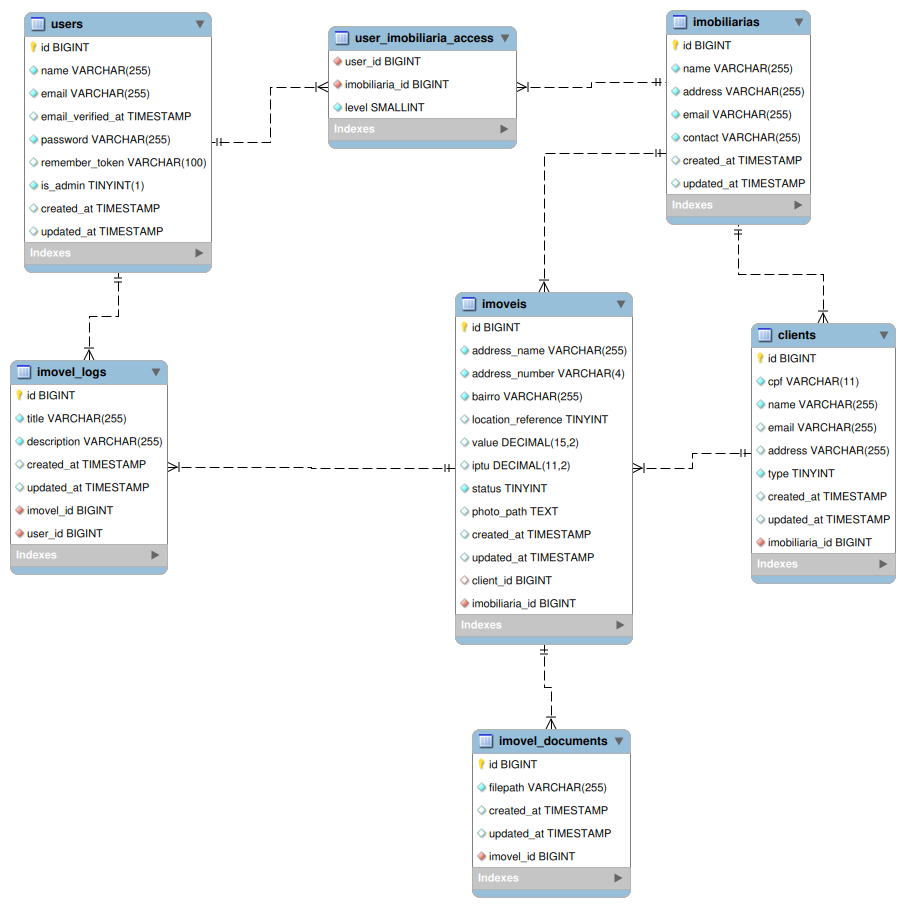
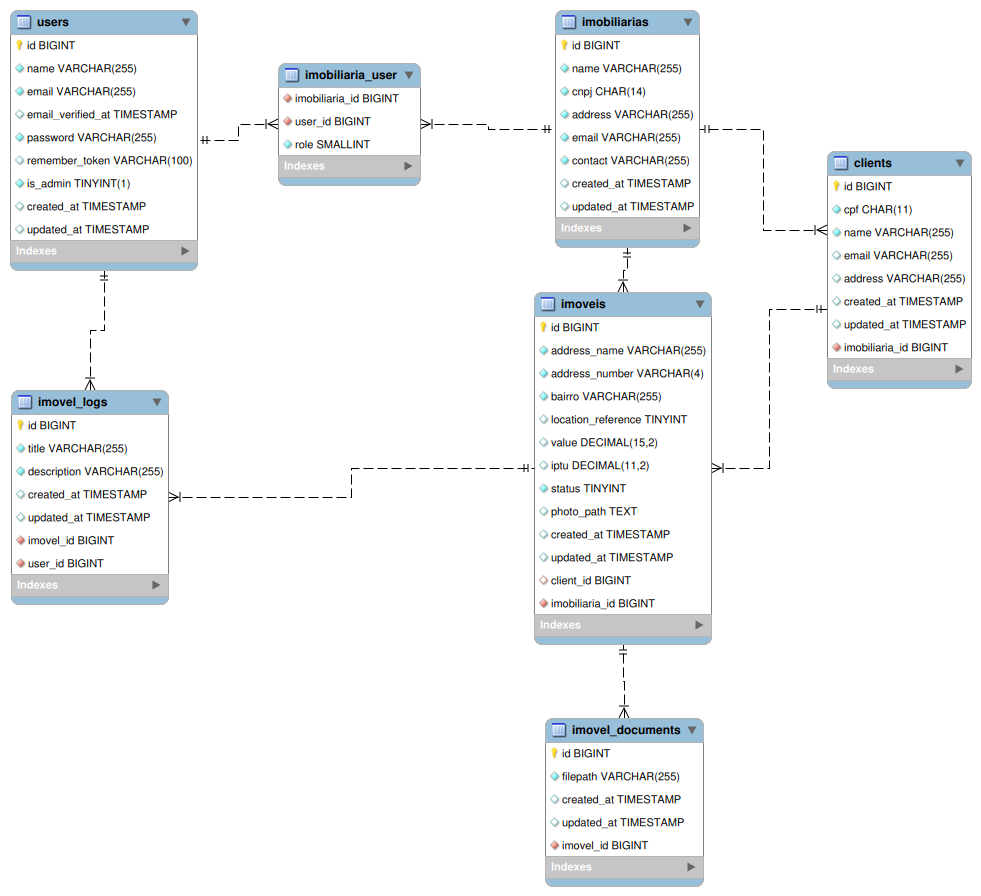
refactor: improve infrastructure of role permission management

diff --git a/database/seeders/ImobiliariaSeeder.php b/database/seeders/ImobiliariaSeeder.php
@@ -2,7 +2,7 @@
 
 namespace Database\Seeders;
 
-use App\Enums\AccessLevel;
+use App\Enums\UserRole;
 use App\Models\Imobiliaria;
 use App\Models\User;
 use Illuminate\Database\Console\Seeds\WithoutModelEvents;
@@ -21,7 +21,7 @@ class ImobiliariaSeeder extends Seeder
     private static function generateUserImobiliarias(): array
     {
         // $imobiliarias = Imobiliaria::factory()->count($count)->create();
-        $levels = AccessLevel::cases();
+        $levels = UserRole::cases();
 
         $attachments = [];
 
@@ -29,7 +29,7 @@ class ImobiliariaSeeder extends Seeder
         foreach ($levels as $level) {
             $imobiliaria = Imobiliaria::factory()->create();
             $level_id = $level->value;
-            $attachments[$imobiliaria->id] = ['level' => $level_id];
+            $attachments[$imobiliaria->id] = ['role' => $level_id];
         }
 
         return $attachments;
@@ -42,13 +42,13 @@ class ImobiliariaSeeder extends Seeder
     {
         $users = User::all();
 
-        // For each user, create imobiliarias
+        // For each user, create imobiliarias and attach access level
         $users->skip(1)->each(
             function (User $user) {
                 $attachments = static::generateUserImobiliarias();
-                // attach the imobiliarias to the user
-                // attach object format:
-                // [imobiliaria_id => ['level' => level_id]]
+                // attach imobiliarias to the user's imobiliaria list (aquired through user->imobiliarias())
+                // object format:
+                // [imobiliaria_id => ['level' => level_id], ...]
                 $user->imobiliarias()->attach($attachments);
             }
         );

diff --git a/app/Policies/ImovelPolicy.php b/app/Policies/ImovelPolicy.php
@@ -5,7 +5,7 @@ namespace App\Policies;
 use App\Models\Imovel;
 use App\Models\User;
 use Illuminate\Auth\Access\Response;
-use App\Enums\AccessLevel;
+use App\Enums\UserRole;
 use App\Services\ImobiliariaService;
 
 class ImovelPolicy
@@ -31,7 +31,7 @@ class ImovelPolicy
      */
     public function create(User $user): bool
     {
-        return ImobiliariaService::current_access_level() === AccessLevel::GERENTE || $user->is_admin;
+        return ImobiliariaService::current_access_level() === UserRole::GERENTE || $user->is_admin;
     }
 
     /**
@@ -39,7 +39,7 @@ class ImovelPolicy
      */
     public function update(User $user, Imovel $imovel): bool
     {
-        return ImobiliariaService::current_access_level() === AccessLevel::GERENTE || $user->is_admin;
+        return ImobiliariaService::current_access_level() === UserRole::GERENTE || $user->is_admin;
     }
 
     /**
@@ -47,7 +47,7 @@ class ImovelPolicy
      */
     public function delete(User $user, Imovel $imovel): bool
     {
-        return ImobiliariaService::current_access_level() === AccessLevel::GERENTE || $user->is_admin;
+        return ImobiliariaService::current_access_level() === UserRole::GERENTE || $user->is_admin;
     }
 
     /**

diff --git a/database/migrations/2025_01_26_202118_create_user_imobiliaria_access_table.php b/database/migrations/2025_01_26_202118_create_user_imobiliaria_access_table.php
@@ -10,10 +10,11 @@ return new class extends Migration {
      */
     public function up(): void
     {
-        Schema::create('user_imobiliaria_access', function (Blueprint $table) {
-            $table->foreignId('user_id')->constrained()->cascadeOnDelete();
+        Schema::create('imobiliaria_user', function (Blueprint $table) {
             $table->foreignId('imobiliaria_id')->constrained()->cascadeOnDelete();
-            $table->unsignedSmallInteger('level');
+            $table->foreignId('user_id')->constrained()->cascadeOnDelete();
+            $table->unsignedSmallInteger('role');
+            $table->unique(['user_id', 'imobiliaria_id']);
         });
     }
 
@@ -22,6 +23,6 @@ return new class extends Migration {
      */
     public function down(): void
     {
-        Schema::dropIfExists('user_imobiliaria_access');
+        Schema::dropIfExists('imobiliaria_user');
     }
 };

diff --git a/app/Services/ImobiliariaService.php b/app/Services/ImobiliariaService.php
@@ -2,7 +2,7 @@
 
 namespace App\Services;
 
-use App\Enums\AccessLevel;
+use App\Enums\UserRole;
 use Illuminate\Database\Eloquent\Collection;
 use Session;
 use App\Models\Imobiliaria;
@@ -11,6 +11,7 @@ class ImobiliariaService
 {
     /**
      * Summary of user_imobiliarias
+     * TODO: This should be an accessor from the User model
      * @return Collection<Imobiliaria>
      */
     public static function user_imobiliarias(): Collection
@@ -39,8 +40,8 @@ class ImobiliariaService
         return $imobiliarias[$index_imobiliaria] ?? null;
     }
 
-    public static function current_access_level(): AccessLevel|null
+    public static function current_access_level(): UserRole|null
     {
-        return AccessLevel::tryFrom(static::current_imobiliaria()->access->level ?? null);
+        return UserRole::tryFrom(static::current_imobiliaria()->access->level ?? null);
     }
 }

diff --git a/app/Policies/ClientPolicy.php b/app/Policies/ClientPolicy.php
@@ -2,7 +2,7 @@
 
 namespace App\Policies;
 
-use App\Enums\AccessLevel;
+use App\Enums\UserRole;
 use App\Models\Client;
 use App\Models\User;
 use App\Services\ImobiliariaService;
@@ -30,7 +30,7 @@ class ClientPolicy
      */
     public function create(User $user): bool
     {
-        return ImobiliariaService::current_access_level() === AccessLevel::GERENTE || $user->is_admin;
+        return ImobiliariaService::current_access_level() === UserRole::GERENTE || $user->is_admin;
     }
 
     /**
@@ -38,7 +38,7 @@ class ClientPolicy
      */
     public function update(User $user, Client $client): bool
     {
-        return ImobiliariaService::current_access_level() === AccessLevel::GERENTE || $user->is_admin;
+        return ImobiliariaService::current_access_level() === UserRole::GERENTE || $user->is_admin;
     }
 
     /**

diff --git a/app/Policies/ImobiliariaPolicy.php b/app/Policies/ImobiliariaPolicy.php
@@ -2,7 +2,7 @@
 
 namespace App\Policies;
 
-use App\Enums\AccessLevel;
+use App\Enums\UserRole;
 use App\Models\Imobiliaria;
 use App\Models\User;
 use Illuminate\Auth\Access\Response;
@@ -39,7 +39,7 @@ class ImobiliariaPolicy
      */
     public function update(User $user, Imobiliaria $imobiliaria): bool
     {
-        return ImobiliariaService::current_access_level() === AccessLevel::GERENTE || $user->is_admin;
+        return ImobiliariaService::current_access_level() === UserRole::GERENTE || $user->is_admin;
     }
 
     /**

diff --git a/app/Models/User.php b/app/Models/User.php
@@ -50,8 +50,9 @@ class User extends Authenticatable
 
     public function imobiliarias(): BelongsToMany
     {
-        return $this->belongsToMany(Imobiliaria::class, 'user_imobiliaria_access')
-            ->as('access')
-            ->withPivot('level');
+        return $this->belongsToMany(Imobiliaria::class, 'imobiliaria_user')
+            ->using(Role::class)
+            ->as('role') // 'role' pivot model reference (user->imobiliarias->role)
+            ->withPivot('role'); // 'role' attribute name
     }
 }

diff --git a/app/Models/Role.php b/app/Models/Role.php
@@ -1,0 +1,19 @@
+<?php
+
+namespace App\Models;
+
+use App\Enums\UserRole;
+use Illuminate\Database\Eloquent\Relations\Pivot;
+
+class Role extends Pivot
+{
+    /**
+     * Determine if the user has specific permission level(s)
+     * @param array<UserRole>|string $roles the role(s) to check against the user
+     * @return bool
+     */
+    public function hasPermission(array|string $roles): bool
+    {
+        return in_array($this->role, (array) $roles);
+    }
+}

diff --git a/app/Models/Imobiliaria.php b/app/Models/Imobiliaria.php
@@ -26,7 +26,10 @@ class Imobiliaria extends Model
 
     public function users(): BelongsToMany
     {
-        return $this->belongsToMany(User::class, 'user_imobiliaria_access')->as('access')->withPivot('level');
+        return $this->belongsToMany(User::class, 'imobiliaria_user')
+            ->using(Role::class)
+            ->as('role') // 'role' pivot model
+            ->withPivot('role'); // 'role' attribute name
     }
 
     public function clients(): HasMany

diff --git a/database/seeders/DatabaseSeeder.php b/database/seeders/DatabaseSeeder.php
@@ -2,7 +2,7 @@
 
 namespace Database\Seeders;
 
-use App\Enums\AccessLevel;
+use App\Enums\UserRole;
 use App\Models\Client;
 use App\Models\Imobiliaria;
 use App\Models\Imovel;

diff --git a/app/Enums/UserRole.php b/app/Enums/UserRole.php
@@ -4,7 +4,7 @@ namespace App\Enums;
 
 use Str;
 
-enum AccessLevel: int
+enum UserRole: int
 {
     case COLABORADOR = 0;
     case GERENTE = 1;
